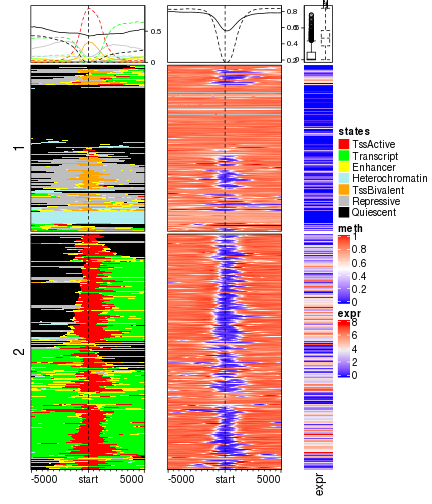
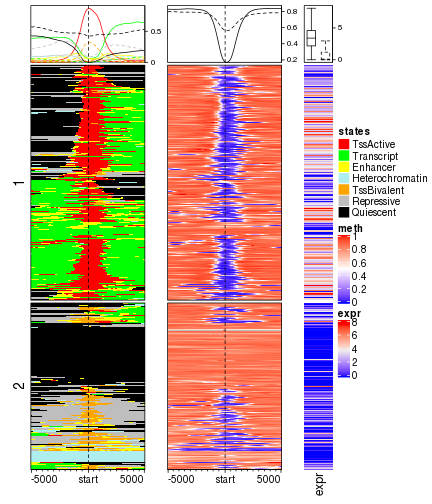
update

diff --git a/vignettes/visualize_categorical_signals.md b/vignettes/visualize_categorical_signals.md
@@ -322,6 +322,7 @@ smoothed methylation data which can be replaced by using `granges()` and
 
 ```r
 expr = read.table("~/EnrichedHeatmap_test/57epigenomes.RPKM.pc.gz", row.names = 1, header = TRUE)
+expr = as.matrix(expr)
 obj = readRDS("~/EnrichedHeatmap_test/chr1_roadmap_merged_bsseq.rds")
 meth = obj@rowData
 meth_mat = obj@trans(obj@assays$data$coef)
@@ -364,7 +365,7 @@ EnrichedHeatmap(mat_meth, name = "meth", col = meth_col_fun,
 Heatmap(log2(expr[names(tss_chr1), "E003"] + 1), name = "expr", 
 	show_row_names = FALSE, width = unit(1, "cm"),
 	top_annotation = HeatmapAnnotation(summary = anno_summary(gp = gpar(lty = 1:2),
-		outline = FALSE)))
+		outline = FALSE, axis_param = list(side = "right"))))
 draw(ht_list, ht_gap = unit(8, "mm"))
 ```
 
@@ -456,7 +457,7 @@ Now we make the Chord diagram.
 grid.col = c(states_col, states_col)
 names(grid.col) = c(rownames(transition_mat), colnames(transition_mat))
 chordDiagram(transition_mat, grid.col = grid.col, annotationTrack = c("grid", "axis"),
-	directional = TRUE)
+	directional = TRUE, gap.degree = 5)
 circos.clear()
 text(0.5, -1, "ESC")
 text(0.5, 1, "lung")
